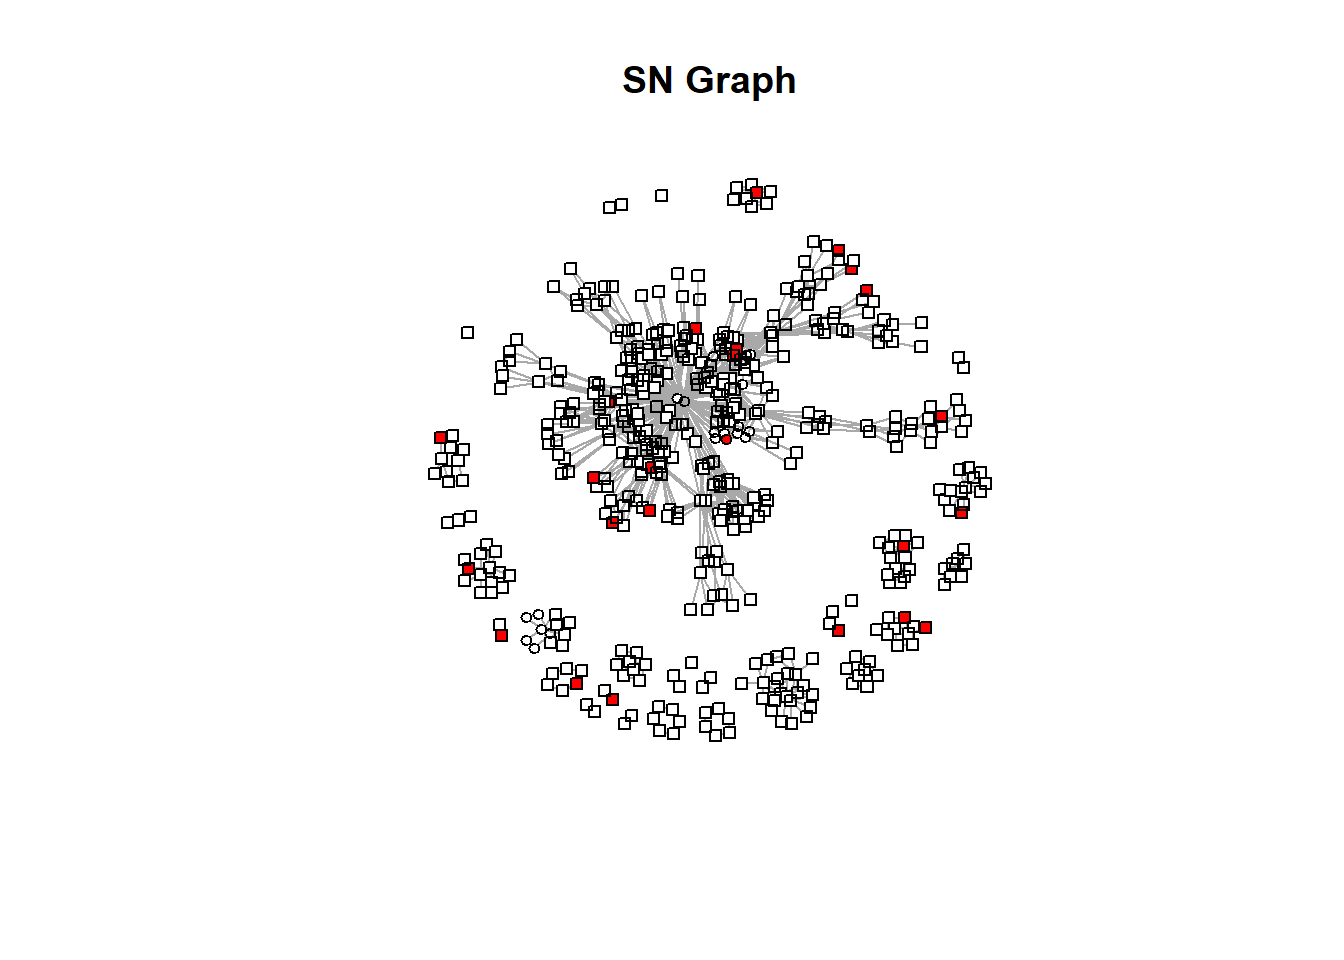
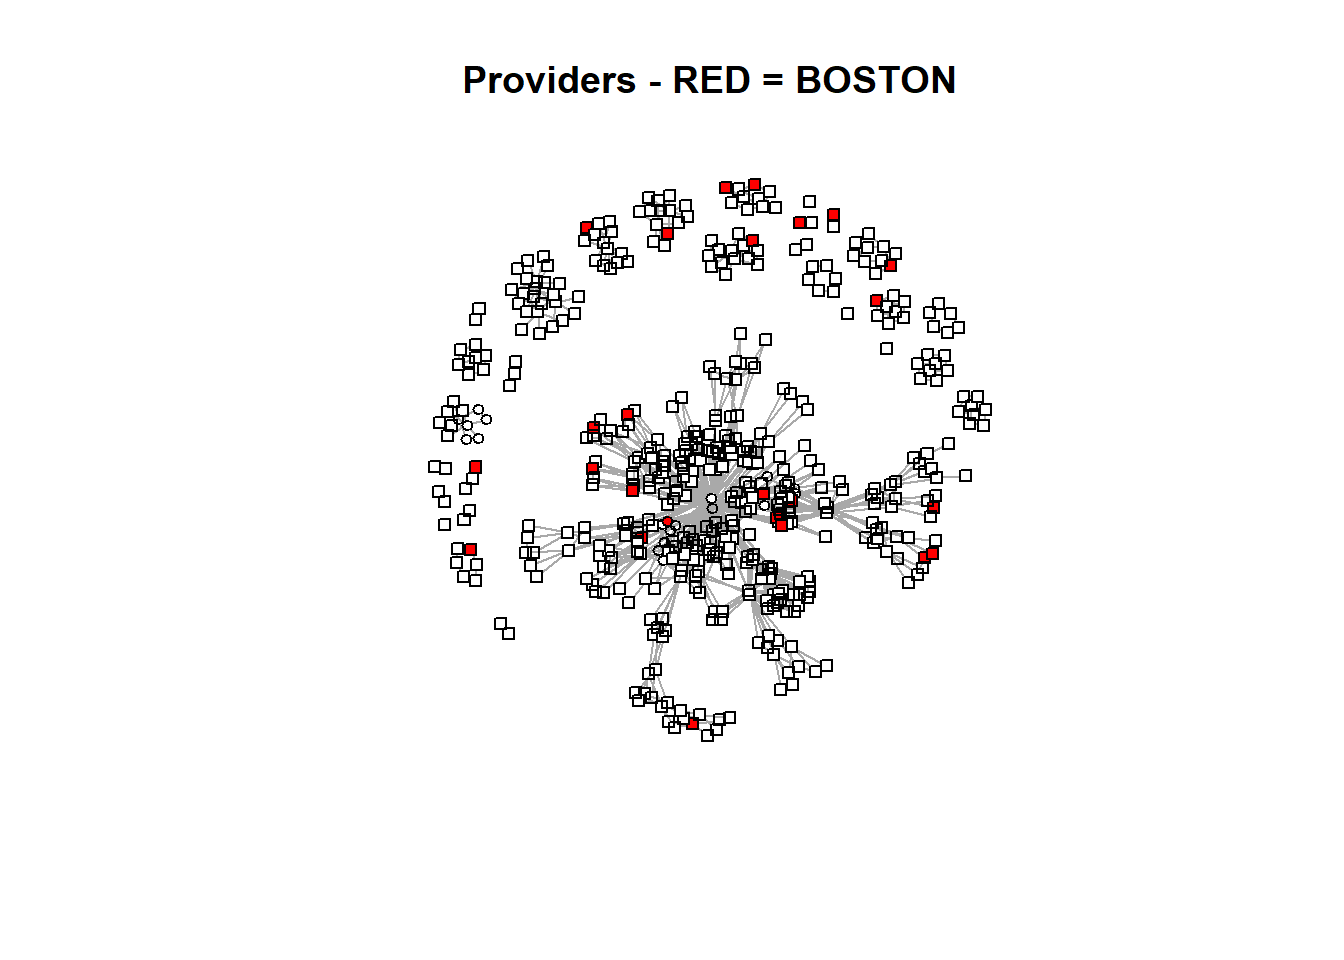
update post 5

Changed region(s): [[0.3125, 0.1875, 0.75, 0.7812], [0.3438, 0.0625, 0.7188, 0.0938]]

diff --git a/docs/posts/Post_Five/post_5.html b/docs/posts/Post_Five/post_5.html
@@ -455,50 +455,130 @@ WEST BRIDGEWATER     West Roxbury     WEST ROXBURY      WESTBOROUGH
        WORCESTER 
               17 </code></pre>
 </div>
+<div class="sourceCode cell-code" id="cb27"><pre class="sourceCode r code-with-copy"><code class="sourceCode r"><span id="cb27-1"><a href="#cb27-1" aria-hidden="true" tabindex="-1"></a>pro_attr <span class="ot">&lt;-</span> pro_attr <span class="sc">%&gt;%</span></span>
+<span id="cb27-2"><a href="#cb27-2" aria-hidden="true" tabindex="-1"></a>  <span class="fu">mutate</span>(</span>
+<span id="cb27-3"><a href="#cb27-3" aria-hidden="true" tabindex="-1"></a>    <span class="at">CITY =</span><span class="fu">tolower</span>(CITY)</span>
+<span id="cb27-4"><a href="#cb27-4" aria-hidden="true" tabindex="-1"></a>  )</span>
+<span id="cb27-5"><a href="#cb27-5" aria-hidden="true" tabindex="-1"></a>pro_attr_list <span class="ot">&lt;-</span> <span class="fu">do.call</span>(list, pro_attr)</span></code><button title="Copy to Clipboard" class="code-copy-button"><i class="bi"></i></button></pre></div>
 </div>
 <p>Should have cleaned that earlier, but here we go!</p>
 <div class="cell">
-<div class="sourceCode cell-code" id="cb27"><pre class="sourceCode r code-with-copy"><code class="sourceCode r"><span id="cb27-1"><a href="#cb27-1" aria-hidden="true" tabindex="-1"></a>Boston_Neighborhoods <span class="ot">&lt;-</span> <span class="fu">c</span>(</span>
-<span id="cb27-2"><a href="#cb27-2" aria-hidden="true" tabindex="-1"></a>  <span class="st">"ALLSTON"</span>,</span>
-<span id="cb27-3"><a href="#cb27-3" aria-hidden="true" tabindex="-1"></a>  <span class="st">"BRIGHTON"</span>,</span>
-<span id="cb27-4"><a href="#cb27-4" aria-hidden="true" tabindex="-1"></a>  <span class="st">"Boston"</span>,</span>
-<span id="cb27-5"><a href="#cb27-5" aria-hidden="true" tabindex="-1"></a>  <span class="st">"BOSTON"</span>,</span>
-<span id="cb27-6"><a href="#cb27-6" aria-hidden="true" tabindex="-1"></a>  <span class="st">"CHARLESTOWN"</span>,</span>
-<span id="cb27-7"><a href="#cb27-7" aria-hidden="true" tabindex="-1"></a>  <span class="st">"DORCHESTER"</span>,</span>
-<span id="cb27-8"><a href="#cb27-8" aria-hidden="true" tabindex="-1"></a>  <span class="st">"HYDE PARK"</span>,</span>
-<span id="cb27-9"><a href="#cb27-9" aria-hidden="true" tabindex="-1"></a>  <span class="st">"Jamaica Plain"</span>,</span>
-<span id="cb27-10"><a href="#cb27-10" aria-hidden="true" tabindex="-1"></a>  <span class="st">"JAMAICA PLAIN"</span>,</span>
-<span id="cb27-11"><a href="#cb27-11" aria-hidden="true" tabindex="-1"></a>  <span class="st">"MATTAPAN"</span>,</span>
-<span id="cb27-12"><a href="#cb27-12" aria-hidden="true" tabindex="-1"></a>  <span class="st">"ROSLINDALE"</span>,</span>
-<span id="cb27-13"><a href="#cb27-13" aria-hidden="true" tabindex="-1"></a>  <span class="st">"ROXBURY"</span>,</span>
-<span id="cb27-14"><a href="#cb27-14" aria-hidden="true" tabindex="-1"></a>  <span class="st">"West Roxbury"</span>,</span>
-<span id="cb27-15"><a href="#cb27-15" aria-hidden="true" tabindex="-1"></a>  <span class="st">"WEST ROXBURY"</span></span>
-<span id="cb27-16"><a href="#cb27-16" aria-hidden="true" tabindex="-1"></a>)</span></code><button title="Copy to Clipboard" class="code-copy-button"><i class="bi"></i></button></pre></div>
+<div class="sourceCode cell-code" id="cb28"><pre class="sourceCode r code-with-copy"><code class="sourceCode r"><span id="cb28-1"><a href="#cb28-1" aria-hidden="true" tabindex="-1"></a>Boston_Neighborhoods <span class="ot">&lt;-</span> <span class="fu">c</span>(</span>
+<span id="cb28-2"><a href="#cb28-2" aria-hidden="true" tabindex="-1"></a>  <span class="st">"ALLSTON"</span>,</span>
+<span id="cb28-3"><a href="#cb28-3" aria-hidden="true" tabindex="-1"></a>  <span class="st">"BRIGHTON"</span>,</span>
+<span id="cb28-4"><a href="#cb28-4" aria-hidden="true" tabindex="-1"></a>  <span class="st">"BOSTON"</span>,</span>
+<span id="cb28-5"><a href="#cb28-5" aria-hidden="true" tabindex="-1"></a>  <span class="st">"CHARLESTOWN"</span>,</span>
+<span id="cb28-6"><a href="#cb28-6" aria-hidden="true" tabindex="-1"></a>  <span class="st">"DORCHESTER"</span>,</span>
+<span id="cb28-7"><a href="#cb28-7" aria-hidden="true" tabindex="-1"></a>  <span class="st">"HYDE PARK"</span>,</span>
+<span id="cb28-8"><a href="#cb28-8" aria-hidden="true" tabindex="-1"></a>  <span class="st">"JAMAICA PLAIN"</span>,</span>
+<span id="cb28-9"><a href="#cb28-9" aria-hidden="true" tabindex="-1"></a>  <span class="st">"MATTAPAN"</span>,</span>
+<span id="cb28-10"><a href="#cb28-10" aria-hidden="true" tabindex="-1"></a>  <span class="st">"ROSLINDALE"</span>,</span>
+<span id="cb28-11"><a href="#cb28-11" aria-hidden="true" tabindex="-1"></a>  <span class="st">"ROXBURY"</span>,</span>
+<span id="cb28-12"><a href="#cb28-12" aria-hidden="true" tabindex="-1"></a>  <span class="st">"West Roxbury"</span>,</span>
+<span id="cb28-13"><a href="#cb28-13" aria-hidden="true" tabindex="-1"></a>  <span class="st">"WEST ROXBURY"</span></span>
+<span id="cb28-14"><a href="#cb28-14" aria-hidden="true" tabindex="-1"></a>)</span>
+<span id="cb28-15"><a href="#cb28-15" aria-hidden="true" tabindex="-1"></a>Boston_Neighborhoods <span class="ot">&lt;-</span> <span class="fu">tolower</span>(Boston_Neighborhoods)</span></code><button title="Copy to Clipboard" class="code-copy-button"><i class="bi"></i></button></pre></div>
 </div>
 <div class="cell">
-<div class="sourceCode cell-code" id="cb28"><pre class="sourceCode r code-with-copy"><code class="sourceCode r"><span id="cb28-1"><a href="#cb28-1" aria-hidden="true" tabindex="-1"></a><span class="co">#assign colors</span></span>
-<span id="cb28-2"><a href="#cb28-2" aria-hidden="true" tabindex="-1"></a><span class="co">#colors &lt;-  c("yellow", "blue", "green", "orange", "red", "purple")</span></span>
-<span id="cb28-3"><a href="#cb28-3" aria-hidden="true" tabindex="-1"></a><span class="co">#vertex_colors &lt;- colors[pro_attr_list$block]</span></span>
-<span id="cb28-4"><a href="#cb28-4" aria-hidden="true" tabindex="-1"></a>vertex_colors <span class="ot">&lt;-</span> <span class="fu">ifelse</span>(pro_attr_list<span class="sc">$</span>CITY <span class="sc">%in%</span> Boston_Neighborhoods, <span class="st">"red"</span>, <span class="st">"white"</span>)</span>
-<span id="cb28-5"><a href="#cb28-5" aria-hidden="true" tabindex="-1"></a>vertex_shape <span class="ot">&lt;-</span> <span class="fu">ifelse</span>(pro_attr_list<span class="sc">$</span>block <span class="sc">==</span> <span class="st">"1"</span>, <span class="st">"circle"</span>, <span class="st">"square"</span>)</span>
-<span id="cb28-6"><a href="#cb28-6" aria-hidden="true" tabindex="-1"></a><span class="co">#vertex_shape &lt;- ifelse(pro_attr_list$CITY == "BOSTON", "circle", "square")</span></span></code><button title="Copy to Clipboard" class="code-copy-button"><i class="bi"></i></button></pre></div>
+<div class="sourceCode cell-code" id="cb29"><pre class="sourceCode r code-with-copy"><code class="sourceCode r"><span id="cb29-1"><a href="#cb29-1" aria-hidden="true" tabindex="-1"></a><span class="co">#assign colors</span></span>
+<span id="cb29-2"><a href="#cb29-2" aria-hidden="true" tabindex="-1"></a><span class="co">#colors &lt;-  c("yellow", "blue", "green", "orange", "red", "purple")</span></span>
+<span id="cb29-3"><a href="#cb29-3" aria-hidden="true" tabindex="-1"></a><span class="co">#vertex_colors &lt;- colors[pro_attr_list$block]</span></span>
+<span id="cb29-4"><a href="#cb29-4" aria-hidden="true" tabindex="-1"></a>vertex_colors <span class="ot">&lt;-</span> <span class="fu">ifelse</span>(pro_attr_list<span class="sc">$</span>CITY <span class="sc">%in%</span> Boston_Neighborhoods, <span class="st">"red"</span>, <span class="st">"white"</span>)</span>
+<span id="cb29-5"><a href="#cb29-5" aria-hidden="true" tabindex="-1"></a>vertex_shape <span class="ot">&lt;-</span> <span class="fu">ifelse</span>(pro_attr_list<span class="sc">$</span>block <span class="sc">==</span> <span class="st">"1"</span>, <span class="st">"circle"</span>, <span class="st">"square"</span>)</span>
+<span id="cb29-6"><a href="#cb29-6" aria-hidden="true" tabindex="-1"></a><span class="co">#vertex_shape &lt;- ifelse(pro_attr_list$CITY == "BOSTON", "circle", "square")</span></span></code><button title="Copy to Clipboard" class="code-copy-button"><i class="bi"></i></button></pre></div>
 </div>
 <div class="cell">
-<div class="sourceCode cell-code" id="cb29"><pre class="sourceCode r code-with-copy"><code class="sourceCode r"><span id="cb29-1"><a href="#cb29-1" aria-hidden="true" tabindex="-1"></a><span class="fu">plot</span>(provider_graph, </span>
-<span id="cb29-2"><a href="#cb29-2" aria-hidden="true" tabindex="-1"></a>     <span class="at">layout =</span> layout.fruchterman.reingold, </span>
-<span id="cb29-3"><a href="#cb29-3" aria-hidden="true" tabindex="-1"></a>     <span class="at">vertex.label.dist =</span> <span class="dv">2</span>, </span>
-<span id="cb29-4"><a href="#cb29-4" aria-hidden="true" tabindex="-1"></a>     <span class="at">vertex.size =</span> <span class="dv">4</span>, </span>
-<span id="cb29-5"><a href="#cb29-5" aria-hidden="true" tabindex="-1"></a>     <span class="at">vertex.color =</span> vertex_colors,</span>
-<span id="cb29-6"><a href="#cb29-6" aria-hidden="true" tabindex="-1"></a>     <span class="at">vertex.shape =</span> vertex_shape,</span>
-<span id="cb29-7"><a href="#cb29-7" aria-hidden="true" tabindex="-1"></a>     <span class="at">edge.label =</span> <span class="cn">NA</span>,</span>
-<span id="cb29-8"><a href="#cb29-8" aria-hidden="true" tabindex="-1"></a>     <span class="at">vertex.label =</span> <span class="cn">NA</span>,</span>
-<span id="cb29-9"><a href="#cb29-9" aria-hidden="true" tabindex="-1"></a>     <span class="at">vertex.label.cex =</span> <span class="fl">0.2</span>, </span>
-<span id="cb29-10"><a href="#cb29-10" aria-hidden="true" tabindex="-1"></a>     <span class="at">main =</span> <span class="st">"SN Graph"</span>)</span></code><button title="Copy to Clipboard" class="code-copy-button"><i class="bi"></i></button></pre></div>
+<div class="sourceCode cell-code" id="cb30"><pre class="sourceCode r code-with-copy"><code class="sourceCode r"><span id="cb30-1"><a href="#cb30-1" aria-hidden="true" tabindex="-1"></a><span class="fu">plot</span>(provider_graph, </span>
+<span id="cb30-2"><a href="#cb30-2" aria-hidden="true" tabindex="-1"></a>     <span class="at">layout =</span> layout.fruchterman.reingold, </span>
+<span id="cb30-3"><a href="#cb30-3" aria-hidden="true" tabindex="-1"></a>     <span class="at">vertex.label.dist =</span> <span class="dv">2</span>, </span>
+<span id="cb30-4"><a href="#cb30-4" aria-hidden="true" tabindex="-1"></a>     <span class="at">vertex.size =</span> <span class="dv">4</span>, </span>
+<span id="cb30-5"><a href="#cb30-5" aria-hidden="true" tabindex="-1"></a>     <span class="at">vertex.color =</span> vertex_colors,</span>
+<span id="cb30-6"><a href="#cb30-6" aria-hidden="true" tabindex="-1"></a>     <span class="at">vertex.shape =</span> vertex_shape,</span>
+<span id="cb30-7"><a href="#cb30-7" aria-hidden="true" tabindex="-1"></a>     <span class="at">edge.label =</span> <span class="cn">NA</span>,</span>
+<span id="cb30-8"><a href="#cb30-8" aria-hidden="true" tabindex="-1"></a>     <span class="at">vertex.label =</span> <span class="cn">NA</span>,</span>
+<span id="cb30-9"><a href="#cb30-9" aria-hidden="true" tabindex="-1"></a>     <span class="at">vertex.label.cex =</span> <span class="fl">0.2</span>, </span>
+<span id="cb30-10"><a href="#cb30-10" aria-hidden="true" tabindex="-1"></a>     <span class="at">main =</span> <span class="st">"Providers - RED = BOSTON"</span>)</span></code><button title="Copy to Clipboard" class="code-copy-button"><i class="bi"></i></button></pre></div>
 <div class="cell-output-display">
 <p><img src="post_5_files/figure-html/unnamed-chunk-26-1.png" class="img-fluid" width="672"></p>
 </div>
 </div>
 <p>So… it’s not Boston related.</p>
+<p>How about Highest populations</p>
+<div class="cell">
+<div class="sourceCode cell-code" id="cb31"><pre class="sourceCode r code-with-copy"><code class="sourceCode r"><span id="cb31-1"><a href="#cb31-1" aria-hidden="true" tabindex="-1"></a>largest_pop <span class="ot">&lt;-</span> <span class="fu">c</span>(</span>
+<span id="cb31-2"><a href="#cb31-2" aria-hidden="true" tabindex="-1"></a><span class="st">"Boston"</span>,</span>
+<span id="cb31-3"><a href="#cb31-3" aria-hidden="true" tabindex="-1"></a><span class="st">"Worcester"</span>,</span>
+<span id="cb31-4"><a href="#cb31-4" aria-hidden="true" tabindex="-1"></a><span class="st">"Springfield"</span>,</span>
+<span id="cb31-5"><a href="#cb31-5" aria-hidden="true" tabindex="-1"></a><span class="st">"Cambridge"</span>,</span>
+<span id="cb31-6"><a href="#cb31-6" aria-hidden="true" tabindex="-1"></a><span class="st">"Lowell"</span>,</span>
+<span id="cb31-7"><a href="#cb31-7" aria-hidden="true" tabindex="-1"></a><span class="st">"Brockton"</span>,</span>
+<span id="cb31-8"><a href="#cb31-8" aria-hidden="true" tabindex="-1"></a><span class="st">"Quincy"</span>,</span>
+<span id="cb31-9"><a href="#cb31-9" aria-hidden="true" tabindex="-1"></a><span class="st">"Lynn"</span>,</span>
+<span id="cb31-10"><a href="#cb31-10" aria-hidden="true" tabindex="-1"></a><span class="st">"New Bedford"</span>,</span>
+<span id="cb31-11"><a href="#cb31-11" aria-hidden="true" tabindex="-1"></a><span class="st">"Fall River"</span>,</span>
+<span id="cb31-12"><a href="#cb31-12" aria-hidden="true" tabindex="-1"></a><span class="st">"Lawrence"</span>,</span>
+<span id="cb31-13"><a href="#cb31-13" aria-hidden="true" tabindex="-1"></a><span class="st">"Newton"</span>,</span>
+<span id="cb31-14"><a href="#cb31-14" aria-hidden="true" tabindex="-1"></a><span class="st">"Somerville"</span>,</span>
+<span id="cb31-15"><a href="#cb31-15" aria-hidden="true" tabindex="-1"></a><span class="st">"Framingham"</span>,</span>
+<span id="cb31-16"><a href="#cb31-16" aria-hidden="true" tabindex="-1"></a><span class="st">"Haverhill"</span>)</span>
+<span id="cb31-17"><a href="#cb31-17" aria-hidden="true" tabindex="-1"></a>largest_pop <span class="ot">&lt;-</span> <span class="fu">tolower</span>(largest_pop)</span></code><button title="Copy to Clipboard" class="code-copy-button"><i class="bi"></i></button></pre></div>
+</div>
+<div class="cell">
+<div class="sourceCode cell-code" id="cb32"><pre class="sourceCode r code-with-copy"><code class="sourceCode r"><span id="cb32-1"><a href="#cb32-1" aria-hidden="true" tabindex="-1"></a><span class="co">#assign colors</span></span>
+<span id="cb32-2"><a href="#cb32-2" aria-hidden="true" tabindex="-1"></a><span class="co">#colors &lt;-  c("yellow", "blue", "green", "orange", "red", "purple")</span></span>
+<span id="cb32-3"><a href="#cb32-3" aria-hidden="true" tabindex="-1"></a><span class="co">#vertex_colors &lt;- colors[pro_attr_list$block]</span></span>
+<span id="cb32-4"><a href="#cb32-4" aria-hidden="true" tabindex="-1"></a>vertex_colors <span class="ot">&lt;-</span> <span class="fu">ifelse</span>(pro_attr_list<span class="sc">$</span>CITY <span class="sc">%in%</span> largest_pop, <span class="st">"red"</span>, <span class="st">"white"</span>)</span>
+<span id="cb32-5"><a href="#cb32-5" aria-hidden="true" tabindex="-1"></a>vertex_shape <span class="ot">&lt;-</span> <span class="fu">ifelse</span>(pro_attr_list<span class="sc">$</span>block <span class="sc">==</span> <span class="st">"1"</span>, <span class="st">"circle"</span>, <span class="st">"square"</span>)</span>
+<span id="cb32-6"><a href="#cb32-6" aria-hidden="true" tabindex="-1"></a><span class="co">#vertex_shape &lt;- ifelse(pro_attr_list$CITY == "BOSTON", "circle", "square")</span></span></code><button title="Copy to Clipboard" class="code-copy-button"><i class="bi"></i></button></pre></div>
+</div>
+<div class="cell">
+<div class="sourceCode cell-code" id="cb33"><pre class="sourceCode r code-with-copy"><code class="sourceCode r"><span id="cb33-1"><a href="#cb33-1" aria-hidden="true" tabindex="-1"></a><span class="fu">plot</span>(provider_graph, </span>
+<span id="cb33-2"><a href="#cb33-2" aria-hidden="true" tabindex="-1"></a>     <span class="at">layout =</span> layout.fruchterman.reingold, </span>
+<span id="cb33-3"><a href="#cb33-3" aria-hidden="true" tabindex="-1"></a>     <span class="at">vertex.label.dist =</span> <span class="dv">2</span>, </span>
+<span id="cb33-4"><a href="#cb33-4" aria-hidden="true" tabindex="-1"></a>     <span class="at">vertex.size =</span> <span class="dv">4</span>, </span>
+<span id="cb33-5"><a href="#cb33-5" aria-hidden="true" tabindex="-1"></a>     <span class="at">vertex.color =</span> vertex_colors,</span>
+<span id="cb33-6"><a href="#cb33-6" aria-hidden="true" tabindex="-1"></a>     <span class="at">vertex.shape =</span> vertex_shape,</span>
+<span id="cb33-7"><a href="#cb33-7" aria-hidden="true" tabindex="-1"></a>     <span class="at">edge.label =</span> <span class="cn">NA</span>,</span>
+<span id="cb33-8"><a href="#cb33-8" aria-hidden="true" tabindex="-1"></a>     <span class="at">vertex.label =</span> <span class="cn">NA</span>,</span>
+<span id="cb33-9"><a href="#cb33-9" aria-hidden="true" tabindex="-1"></a>     <span class="at">vertex.label.cex =</span> <span class="fl">0.2</span>, </span>
+<span id="cb33-10"><a href="#cb33-10" aria-hidden="true" tabindex="-1"></a>     <span class="at">main =</span> <span class="st">"Providers - RED = Largest Cities"</span>)</span></code><button title="Copy to Clipboard" class="code-copy-button"><i class="bi"></i></button></pre></div>
+<div class="cell-output-display">
+<p><img src="post_5_files/figure-html/unnamed-chunk-29-1.png" class="img-fluid" width="672"></p>
+</div>
+</div>
+<div class="cell">
+<div class="sourceCode cell-code" id="cb34"><pre class="sourceCode r code-with-copy"><code class="sourceCode r"><span id="cb34-1"><a href="#cb34-1" aria-hidden="true" tabindex="-1"></a>block1 <span class="ot">&lt;-</span> pro_attr <span class="sc">%&gt;%</span></span>
+<span id="cb34-2"><a href="#cb34-2" aria-hidden="true" tabindex="-1"></a>  <span class="fu">filter</span>(block <span class="sc">==</span> <span class="dv">1</span>)</span></code><button title="Copy to Clipboard" class="code-copy-button"><i class="bi"></i></button></pre></div>
+</div>
+<div class="cell">
+<div class="sourceCode cell-code" id="cb35"><pre class="sourceCode r code-with-copy"><code class="sourceCode r"><span id="cb35-1"><a href="#cb35-1" aria-hidden="true" tabindex="-1"></a>Ted955 <span class="ot">&lt;-</span> encounters_cleaned <span class="sc">%&gt;%</span> </span>
+<span id="cb35-2"><a href="#cb35-2" aria-hidden="true" tabindex="-1"></a>    <span class="fu">filter</span>(PROVIDER <span class="sc">==</span> <span class="st">"Ted955 Reilly981"</span>) <span class="sc">%&gt;%</span> </span>
+<span id="cb35-3"><a href="#cb35-3" aria-hidden="true" tabindex="-1"></a>    <span class="fu">group_by</span>(PROVIDER, CITY.x, REASONDESCRIPTION)<span class="sc">%&gt;%</span></span>
+<span id="cb35-4"><a href="#cb35-4" aria-hidden="true" tabindex="-1"></a>  <span class="fu">summarize</span>(<span class="at">COUNT =</span> <span class="fu">n</span>()) </span></code><button title="Copy to Clipboard" class="code-copy-button"><i class="bi"></i></button></pre></div>
+<div class="cell-output cell-output-stderr">
+<pre><code>`summarise()` has grouped output by 'PROVIDER', 'CITY.x'. You can override
+using the `.groups` argument.</code></pre>
+</div>
+<div class="sourceCode cell-code" id="cb37"><pre class="sourceCode r code-with-copy"><code class="sourceCode r"><span id="cb37-1"><a href="#cb37-1" aria-hidden="true" tabindex="-1"></a>Ted955</span></code><button title="Copy to Clipboard" class="code-copy-button"><i class="bi"></i></button></pre></div>
+<div class="cell-output cell-output-stdout">
+<pre><code># A tibble: 11 × 4
+# Groups:   PROVIDER, CITY.x [1]
+   PROVIDER         CITY.x    REASONDESCRIPTION                            COUNT
+   &lt;chr&gt;            &lt;chr&gt;     &lt;chr&gt;                                        &lt;int&gt;
+ 1 Ted955 Reilly981 Fitchburg Abnormal findings diagnostic imaging heart+…    11
+ 2 Ted955 Reilly981 Fitchburg Acute ST segment elevation myocardial infar…     1
+ 3 Ted955 Reilly981 Fitchburg Acute non-ST segment elevation myocardial i…     2
+ 4 Ted955 Reilly981 Fitchburg Aortic valve regurgitation (disorder)            4
+ 5 Ted955 Reilly981 Fitchburg Aortic valve stenosis (disorder)                 6
+ 6 Ted955 Reilly981 Fitchburg Chronic congestive heart failure (disorder)     86
+ 7 Ted955 Reilly981 Fitchburg History of coronary artery bypass grafting …     6
+ 8 Ted955 Reilly981 Fitchburg Ischemic heart disease (disorder)               30
+ 9 Ted955 Reilly981 Fitchburg Mitral valve regurgitation (disorder)            2
+10 Ted955 Reilly981 Fitchburg Myocardial infarction (disorder)                 3
+11 Ted955 Reilly981 Fitchburg Stroke                                           1</code></pre>
+</div>
+</div>
+<p>Gonna go ahead and say Ted’s a Cardiologist</p>
 
 
 </section>

diff --git a/docs/index.html b/docs/index.html
@@ -170,7 +170,7 @@ ul.task-list li input[type="checkbox"] {
 
 <div class="quarto-listing quarto-listing-container-default" id="listing-listing">
 <div class="list quarto-listing-default">
-<div class="quarto-post image-right" data-index="0" data-categories="code,analysis,block_model" data-listing-date-sort="1714104000000" data-listing-file-modified-sort="1714171278987" data-listing-date-modified-sort="NaN" data-listing-reading-time-sort="5">
+<div class="quarto-post image-right" data-index="0" data-categories="code,analysis,block_model" data-listing-date-sort="1714104000000" data-listing-file-modified-sort="1714173177711" data-listing-date-modified-sort="NaN" data-listing-reading-time-sort="6">
 <div class="thumbnail">
 <p><a href="./posts/Post_Five/post_5.html"> <p class="card-img-top"><img src="posts\Post_Five\post_5_files\figure-html\unnamed-chunk-9-1.png"  class="thumbnail-image card-img"/></p> </a></p>
 </div>
